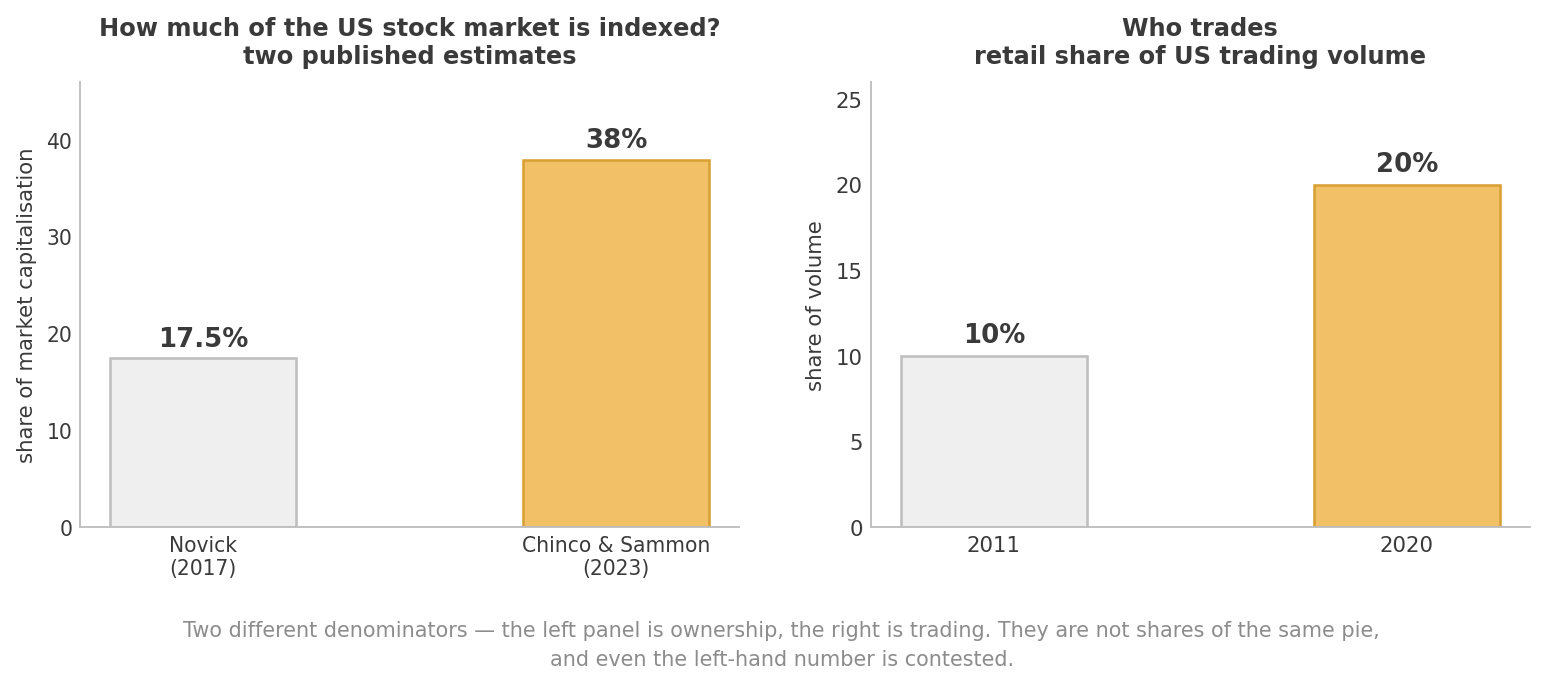
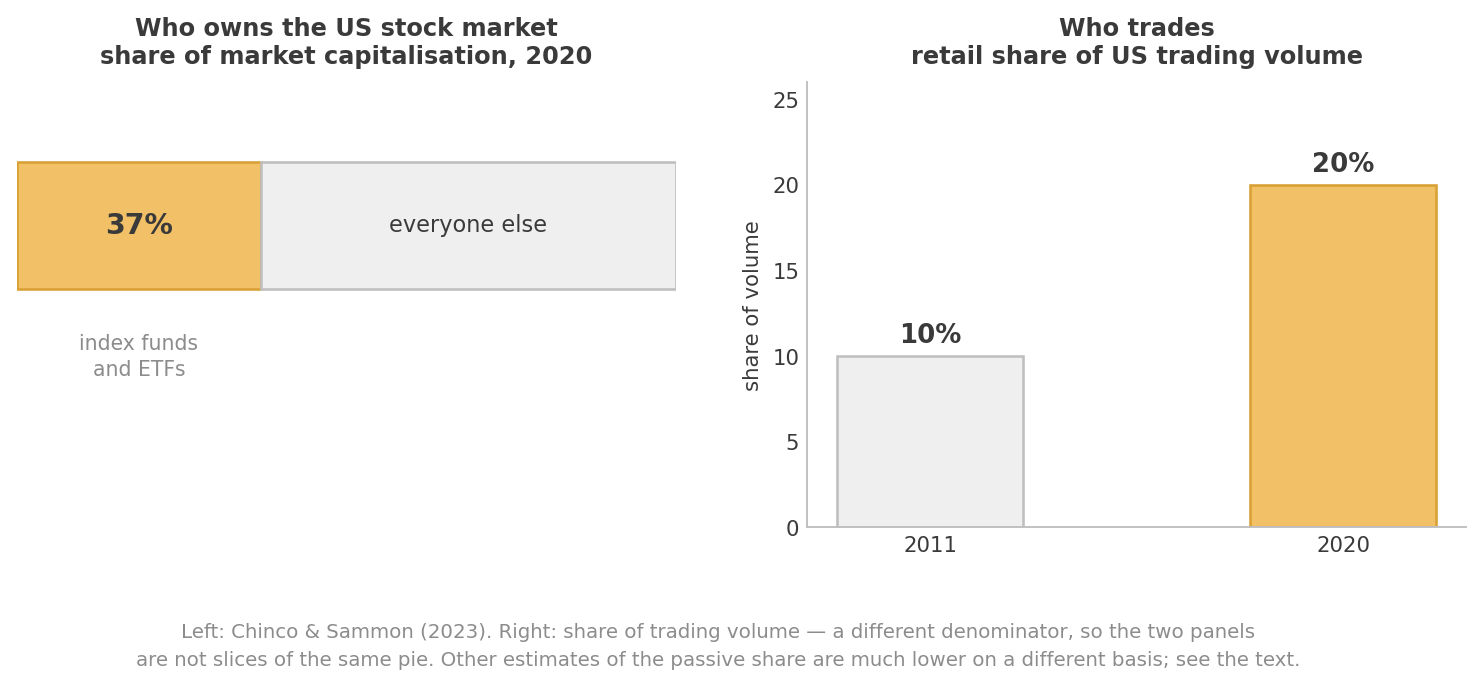
Fix a denominator error I introduced in the indexing figure
The figure is mine, not EQI's -- EQI has no chart here, the numbers are
prose in two separate places with two different denominators. Page 44
gives Chinco & Sammon at over 37% of US stock market capitalization; page
50 gives a 17.5-38% range measured against total assets under management.
I plotted the AUM range on an axis labelled market capitalisation, so the
Novick bar was mislabelled, and the caption called it 'contested' rather
than admitting the two numbers answer different questions.

Left panel is now one correctly sourced bar -- 37% of US market cap, 2020,
Chinco & Sammon -- and the 17.5% figure moved into the text with its own
denominator stated. Turned it into the point rather than hiding it: before
comparing two financial statistics, check they share a denominator. That is
a habit worth building on page one.

diff --git a/chapters/01/build_intro_figures.py b/chapters/01/build_intro_figures.py
@@ -147,16 +147,16 @@ save(fig, "ddi_3com_palm.png")
 fig, axes = plt.subplots(1, 2, figsize=(11, 3.4))
 
 a = axes[0]
-a.bar(["Novick\n(2017)", "Chinco & Sammon\n(2023)"], [17.5, 38],
-      color=[GREY, ORANGE], edgecolor=[EDGE, OEDGE], width=0.45, lw=1.1)
-for x_, v in zip([0, 1], [17.5, 38]):
-    a.text(x_, v + 1.2, f"{v}%", ha="center", fontsize=11, fontweight="bold", color=DARK)
-a.set_ylim(0, 46); a.set_ylabel("share of market capitalisation", fontsize=9)
-a.set_title("How much of the US stock market is indexed?\ntwo published estimates",
+a.barh([0], [37], color=ORANGE, edgecolor=OEDGE, height=0.40, lw=1.1)
+a.barh([0], [63], left=[37], color=GREY, edgecolor=EDGE, height=0.40, lw=1.1)
+a.text(18.5, 0, "37%", ha="center", va="center", fontsize=12,
+       fontweight="bold", color=DARK)
+a.text(68.5, 0, "everyone else", ha="center", va="center", fontsize=9.5, color=DARK)
+a.text(18.5, -0.34, "index funds\nand ETFs", ha="center", va="top",
+       fontsize=8.6, color=MUTE, linespacing=1.4)
+a.set_xlim(0, 100); a.set_ylim(-0.95, 0.45); a.axis("off")
+a.set_title("Who owns the US stock market\nshare of market capitalisation, 2020",
             fontsize=10.2, fontweight="bold", color=DARK, pad=8)
-for sp in ("top", "right"): a.spines[sp].set_visible(False)
-a.spines["left"].set_color(EDGE); a.spines["bottom"].set_color(EDGE)
-a.tick_params(labelsize=8.6, length=0)
 
 b = axes[1]
 b.bar(["2011", "2020"], [10, 20], color=[GREY, ORANGE],
@@ -171,9 +171,10 @@ b.spines["left"].set_color(EDGE); b.spines["bottom"].set_color(EDGE)
 b.tick_params(labelsize=9, length=0)
 
 fig.text(0.5, -0.13,
-         "Two different denominators — the left panel is ownership, the right is trading. "
-         "They are not shares of the same pie,\nand even the left-hand number is contested.",
-         ha="center", fontsize=8.8, color=MUTE, linespacing=1.6)
+         "Left: Chinco & Sammon (2023). Right: share of trading volume — a different denominator, "
+         "so the two panels\nare not slices of the same pie. Other estimates of the passive share "
+         "are much lower on a different basis; see the text.",
+         ha="center", fontsize=8.4, color=MUTE, linespacing=1.6)
 save(fig, "ddi_who_owns_who_trades.png")
 
 

diff --git a/chapters/01/what-is-data-driven-investing.md b/chapters/01/what-is-data-driven-investing.md
@@ -154,10 +154,19 @@ is much more varied than the hedge-fund stereotype:
 
 ![fig](../../assets/plots/ddi_who_owns_who_trades.png)
 
-Two things in that figure. Indexing is now a very large share of the US stock
-market — how large is genuinely contested, which is itself a useful lesson about
-financial data. And retail trading roughly doubled as a share of volume over the
-decade to 2020.
+Two things in that figure, and one warning about it.
+
+Indexing is now a very large share of the US stock market — Chinco and Sammon
+put index funds and ETFs at over 37% of US market capitalisation as of 2020. And
+retail trading roughly doubled as a share of volume over the decade to 2020.
+
+The warning is about the numbers themselves. Other estimates of the passive
+share are far lower — around 17.5% — but they are measured against total assets
+under management rather than US market capitalisation, and for a different year.
+Neither is wrong. They are answers to different questions, and quoting them side
+by side as though they were a disagreement about one number is a mistake you will
+see made constantly. Before you compare two financial statistics, check that
+they have the same denominator.
 
 Now the point of the whole list. **Most of the money in the market is not trying
 to beat you.** An indexer buys a stock because it entered the index, not because
